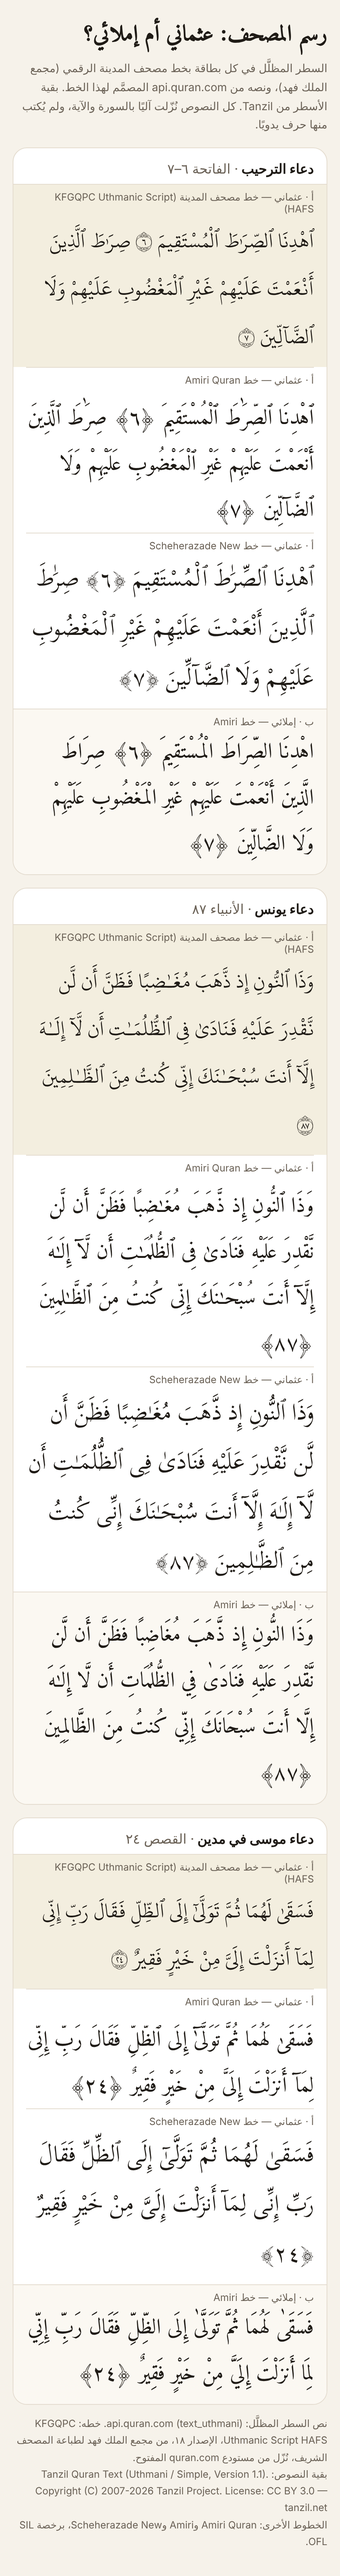
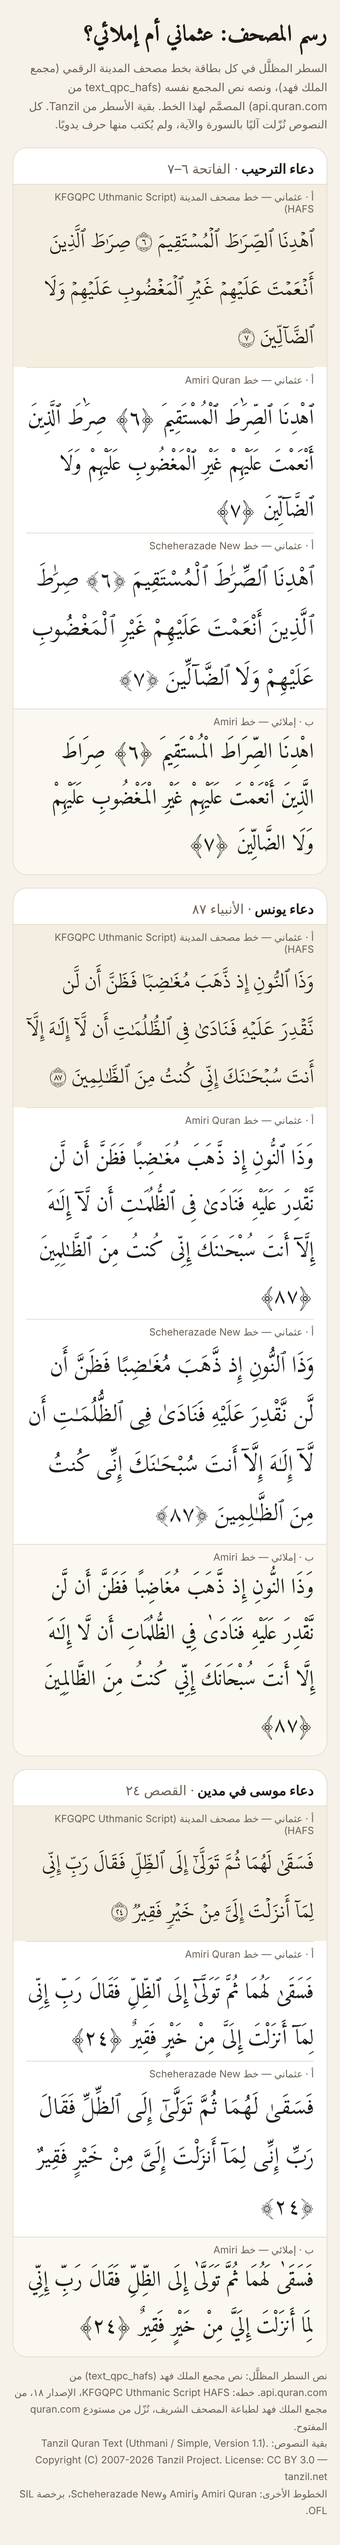
docs(handoff): record the font, hosting and display decisions
- Qur'an text is shown in the Madina Mushaf font (KFGQPC Uthmanic Script
  HAFS) with the King Fahd Complex's own text, text_qpc_hafs from
  api.quran.com, in the app and on share images, so it reads like the
  printed mushaf. The comparison image now uses that text; its letters
  match Tanzil's for the sampled verses, while the marks are encoded the
  complex's way. Tanzil's modern text stays for search. Terms of use of
  the font and text are still to be confirmed.
- Hosting is Vercel's free vercel.app address for now, with the data
  move a later custom domain would need.
- Cards are shown once they pass source verification
  (CONTENT_MIN_LEVEL=verified), with honest wording about the scholarly
  review still to come.
- The grading reference stays open, now explained in plain words.
- The single-file pack is rebuilt; unpacking it reproduces all 33 files.

Claude-Session: https://claude.ai/code/session_01Ya9qA5uPgxLzhDBS1pcCap

Changed region(s): [[0.0302, 0.0311, 0.9674, 0.9966], [0.2721, 0.2803, 0.3023, 0.3114], [0.0907, 0.872, 0.1209, 0.9031]]

diff --git a/handoff/dua-app/00-decisions.md b/handoff/dua-app/00-decisions.md
@@ -9,10 +9,13 @@
 | ١ | **الاسم: «قريب»** | ٢٣ نوفمبر ٢٠٢٦ | من آية الدعاء في سورة البقرة (١٨٦). في الكود وبادئة مفاتيح التخزين: `qareeb` |
 | ٢ | **دعاء الترحيب: دعاء الهداية في الفاتحة (٦–٧)** | ٢٣ نوفمبر ٢٠٢٦ | مع الحديث القدسي في قسمة الصلاة بين الله وعبده (صحيح مسلم ٣٩٥). الإحالتان تطابقان المصدرين في التحقق الأول (`04b`) |
 | ٣ | **المراجعة على مرحلتين** | ٢٣ نوفمبر ٢٠٢٦ | الأولى: تحقق Claude من كل نص ومرجع ودرجة وموقف ومعنى مقابل المصادر. الثانية: مراجع شرعي مسمّى يُختار لاحقًا. التفاصيل وحدود المرحلة الأولى في `03` §٨ |
+| ٤ | **رسم المصحف: العثماني بخط مصحف المدينة** | ٢٣ نوفمبر ٢٠٢٦ | الآية تظهر للمستخدم كما في المصحف: الألف الصغيرة، والمد، والهمزات، وعلامات الوقف، ورقم الآية داخل علامة نهايتها. الخط KFGQPC Uthmanic Script HAFS مع نص المجمع المصمَّم له (من `api.quran.com`)، في التطبيق وفي بطاقة المشاركة. والإملائي من Tanzil للبحث وحده. **بقي:** تأكيد شروط استخدام الخط والنص (§٤) |
+| ٥ | **الاستضافة: Vercel بنطاقه المجاني مؤقتًا** | ٢٣ نوفمبر ٢٠٢٦ | التطبيق على عنوان `vercel.app` إلى أن يُحجز نطاق. **انتبه:** بيانات المستخدم مربوطة بالعنوان، فالانتقال لاحقًا إلى نطاق خاص يحتاج خطوة نقل (§٧) |
+| ٦ | **البطاقات تظهر بعد التحقق الأول، دون انتظار المراجع الشرعي** | ٢٣ نوفمبر ٢٠٢٦ | `CONTENT_MIN_LEVEL=verified`. «عن المحتوى» تقول بدقة إن النصوص طوبقت على مصادرها وإن المراجعة العلمية جارية (§٩) |
 
 ## ينتظرك
 
-### ٤. رسم المصحف: عثماني أم إملائي؟
+### ٤. رسم المصحف (حُسم: العثماني بخط مصحف المدينة)
 
 المقارنة في [assets/script-compare.png](assets/script-compare.png): ثلاثة أدعية (الفاتحة ٦–٧، والأنبياء ٨٧، والقصص ٢٤). كل دعاء بالرسم العثماني في ثلاثة خطوط، أولها خط مصحف المدينة الرقمي، وبالإملائي في خط واحد. كل النصوص نُزّلت آليًا بالسورة والآية.
 
@@ -21,7 +24,7 @@
 | | KFGQPC Uthmanic Script HAFS | خطوط الصفحات (QCF) |
 |---|---|---|
 | ما هو | خط عادي مبني على كتابة عثمان طه، تُكتب به أي آية بأي حجم | خط مستقل لكل صفحة من صفحات المصحف الـ٦٠٤، يرسم الصفحة كما هي في المطبوع |
-| النص الذي يحتاجه | نص المجمع المصمَّم له، وهو المتاح في `api.quran.com` (`text_uthmani`). نص Tanzil العثماني لا يطابقه في بعض العلامات | رموز خاصة بكل صفحة، ليست حروفًا عربية |
+| النص الذي يحتاجه | نص المجمع المصمَّم له، وهو المتاح في `api.quran.com` (`text_qpc_hafs`). نص Tanzil العثماني يرمّز بعض العلامات بغير ما يرمّزها المجمع (السكون مثلًا)، فلا يُستعمل مع هذا الخط. الحروف نفسها متطابقة بين النصين بعد حذف العلامات، وهذا ما يقارنه سكريبت النسخ | رموز خاصة بكل صفحة، ليست حروفًا عربية |
 | يصلح لـ «قريب»؟ | **نعم**: في الصورة يعرض أرقام الآيات تلقائيًا داخل علامة نهاية الآية كالمصحف | **لا**: لا يُبحث فيه ولا يُنسخ منه، ويصعب اقتطاع دعاء من وسط آية |
 | ما يلزم قبل اعتماده | قراءة شروط استخدام الخط عند المجمع، وشروط نص `api.quran.com`. لم أجد نص ترخيص واضحًا في صفحة خطوط المجمع | — |
 
@@ -36,9 +39,15 @@
 | النسخ والمشاركة | يظهر سليمًا في أغلب الهواتف الحديثة، وقد تظهر بعض العلامات مربعات في أجهزة قديمة | يظهر سليمًا في كل مكان |
 | الترخيص | Tanzil Uthmani: الترخيص نفسه (CC BY 3.0، نسخ حرفي، وذكر المصدر، ورابط) | Tanzil Simple: الترخيص نفسه |
 
-**اقتراحي:** العثماني للعرض داخل التطبيق وعلى بطاقة الصورة، بخط مصحف المدينة ونص المجمع إن سمحت شروطهما؛ فهو أقرب ما يكون إلى المصحف الذي يعرفه الناس. وإن لم تسمح: Amiri Quran مع نص Tanzil العثماني. والإملائي من Tanzil للبحث ولنص النسخ في الحالين.
+**القرار:** خط مصحف المدينة مع نص المجمع، في التطبيق وفي بطاقة المشاركة، حتى يقرأ المستخدم كأنه يقرأ من المصحف. والإملائي من Tanzil للبحث وحده.
 
-### ٥. المرجع المعتمد في درجة الحديث
+**بقي قبل الإطلاق العام:** تأكيد شروط استخدام الخط والنص. صفحة خطوط المجمع (`fonts.qurancomplex.gov.sa`) تعرض الخطوط بعبارة «قريبًا» ولا تذكر ترخيصًا. الملف الذي جرّبته من المستودع المفتوح لموقع quran.com، ونصه من `api.quran.com`. الطريق: مراسلة المجمع، أو اعتماد الشروط المنشورة في مكتبة QUL (qul.tarteel.ai) إن كانت تغطي الاستخدام. وإن تعذّر، فالبديل الجاهز Amiri Quran مع نص Tanzil العثماني (رخصتاهما معروفتان)، ويتغير بسطر في الإعداد.
+
+**حدّ الدقة:** الخط الرقمي مبني على خط عثمان طه نفسه، لكنه ليس صورة الصفحة المطبوعة. السطور تنكسر حسب عرض الشاشة لا كما في صفحة المصحف. المطابقة التامة لشكل الصفحة لا تكون إلا بخطوط الصفحات (QCF)، ولا تصلح لنا كما سبق.
+
+### ٥. المرجع المعتمد في درجة الحديث (لم يُحسم)
+
+**المسألة ببساطة:** أحاديث البخاري ومسلم ثابتة، ولا سؤال فيها. أما الأحاديث في الكتب الأخرى (أبو داود، والترمذي، والنسائي، وابن ماجه، وأحمد) فحكم عليها العلماء بعد ذلك: هذا صحيح، وهذا حسن، وهذا ضعيف. وأحيانًا يختلفون في الحديث الواحد. فنحتاج قاعدة واحدة نطبقها كل مرة: **بحكم مَن نأخذ؟**
 
 **ما لن يتغير أيًّا كان اختيارك:** الصحيح والحسن فقط. ما في البخاري ومسلم يكفي فيه العزو. ولا تُعرض درجة إلا ومعها اسم من حكم بها.
 
@@ -60,7 +69,7 @@
 | **ج. اتفاق المحققين** | يدخل ما لم يضعّفه أحد من قائمة محددة | الأشد احتياطًا | يُسقط أدعية ثابتة عند الأكثرين. مثال: لو دخل زبير علي زئي في القائمة لسقط دعاء عائشة ليلة القدر |
 | **د. ما يحكم به المراجع الشرعي** | المراجع يقرر في كل حديث خارج الصحيحين | الأدق إن كان المراجع محدّثًا | يعتمد على وجوده، ولا يصلح للمرحلة الأولى وحدها |
 
-**اقتراحي: ب.** القاعدة واضحة يطبقها التحقق الأول آليًا، والحالات المختلف فيها تذهب إلى المراجع وحده.
+**اقتراحي: ب.** القاعدة واضحة يطبقها التحقق الأول آليًا، والحالات المختلف فيها تذهب إلى المراجع وحده. ومع قرار عرض البطاقات قبل المراجع (§٩)، الحديث المختلف فيه لا يظهر حتى يقرر المراجع فيه، وما سواه يظهر.
 
 ### ٦. الدرر السنية
 
@@ -69,7 +78,7 @@
 - الطرق الممكنة: (١) يُفتح يدويًا عند المراجعة، والرابط يُحفظ في `hadith.sourceUrl`. (٢) أصل إليه من جهازك أنت عبر Remote Control، فيمر الطلب من اتصالك. يُجرَّب، ولا أضمن أن Cloudflare يسمح. (٣) قبل أي سحب آلي منظّم: قراءة شروط الموقع، أو مراسلتهم.
 - ما استعملته بدلًا منه في التحقق الأول: مجموعة بيانات مفتوحة على GitHub (`fawazahmed0/hadith-api`، مأخوذة من sunnah.com) فيها النص العربي والأرقام وأحكام عدد من المحققين للسنن. وجدت فيها حرفًا تالفًا في نص واحد (البخاري ٨٣٤)، فهي للتحقق لا للنشر، ولا يُعتمد عليها وحدها.
 
-### ٧. النطاق
+### ٧. النطاق (حُسم مؤقتًا: Vercel بنطاقه المجاني)
 
 `qareeb.app` و`qareeb.com` و`qarib.app` وأغلب الأشكال القصيرة محجوزة. المتاح عند الفحص في ٢٣ نوفمبر ٢٠٢٦ (فحص فقط، لم يُحجز شيء):
 
@@ -77,15 +86,24 @@
 |---|---|
 | **qareebdua.app** و**qareebdua.com** | الاسم نفسه في النطاقين: الصفحة التعريفية على أحدهما، والتطبيق على `app.` منه، والآخر يحوّل إليه |
 | duaqareeb.com و duaqareeb.app | |
-| inniqareeb.com | من «فإني قريب»، لكنه طويل ويصعب كتابته |
+| inniqareeb.com | من آية البقرة ١٨٦، لكنه طويل ويصعب كتابته |
 | qareeb.dev | لا يناسب منتجًا للعامة |
 
-**اقتراحي:** `qareebdua.app` (مع `qareebdua.com` تحويلًا). الحجز من حسابك على Vercel أو أي مسجل نطاقات. أستطيع حجزه إن طلبت ذلك صراحة، بعد أن أعرض عليك السعر.
+**القرار الآن:** التطبيق على Vercel بعنوانه المجاني (مثل `qareeb.vercel.app`، والعنوان الفعلي يحدده اسم المشروع على Vercel وتوفره).
+
+**ما يترتب عليه:** المتصفح يحفظ بيانات المستخدم (الدفتر، و«دعواتي»، والأيام) لكل عنوان على حدة. لو بدأ الناس على `vercel.app` ثم انتقل التطبيق إلى نطاق خاص، سيفتحونه فارغًا. فإما:
+
+1. أن يُحجز النطاق قبل أن يستعمله أحد غيرك وغير المختبرين (الأبسط، واقتراحي)، أو
+2. أن تُبنى قبل الانتقال خطوة نقل: على العنوان القديم شريط «انتقلنا» وزر يصدّر النسخة الاحتياطية، وعلى الجديد زر يستوردها. هذه موجودة أصلًا في الإعدادات (`05` §٦)، فيكفي شريط وزر.
+
+والمتاح من النطاقات عند الفحص في الجدول أعلاه: `qareebdua.app` و`qareebdua.com` في مقدمته.
 
 ### ٨. المراجع الشرعي (المرحلة الثانية)
 
 لم يُسمَّ بعد. المطلوب: عالم بالحديث والتفسير، يراجع البطاقات بعد التحقق الأول بقائمة الفحص في `03` §٨، ويوقّع باسمه في `review.approval`.
 
-### ٩. ما يُعرض قبل المراجع الشرعي
+### ٩. ما يُعرض قبل المراجع الشرعي (حُسم: يُعرض ما تحققتُ منه)
 
-قرار مستقل يلزم قبل أي إطلاق: هل تظهر للناس بطاقات تحققتُ منها ولم يراجعها العالم بعد؟ انظر `03` §٨، «البوابة».
+`CONTENT_MIN_LEVEL=verified`: تظهر البطاقة بعد أن تجتاز التحقق الأول من المصادر، دون انتظار المراجع الشرعي. البطاقات التي فيها خلاف في الدرجة أو سؤال مفتوح لا تجتاز التحقق الأول أصلًا، فتنتظر المراجع.
+
+يبقى شرط واحد للأمانة، كما في درس «الحمد» (C-01 وC-08): صفحة «عن المحتوى» تقول بدقة إن كل نص طوبق على مصدره وإن المراجعة العلمية جارية، ولا تقول «مراجَع من العلماء» قبل أن يحدث. أما وسم كل بطاقة بحالتها فاختياري، ويُقرر مع التصميم.

diff --git a/handoff/dua-app/05-technical-blueprint.md b/handoff/dua-app/05-technical-blueprint.md
@@ -32,7 +32,7 @@
 │   ├── sources/                  # ملف نص القرآن كما نُزّل، مع ترخيصه
 │   └── themes.json               # وسوم الحاجة وأسماؤها
 ├── scripts/
-│   ├── fetch-quran.ts            # ينسخ quran.fullText من content/sources بالسورة والآية
+│   ├── fetch-quran.ts            # ينسخ quran.fullText من نص المجمع في content/sources بالسورة والآية، ويقارن حروفه بنص Tanzil
 │   ├── fetch-hadith.ts           # ينسخ hadith.fullNarration من مجموعة بيانات الحديث بالكتاب والرقم
 │   ├── validate-content.ts       # الفحوص في 03 القسم ٧، ويفشل البناء عند أي خطأ
 │   ├── build-content.ts          # يجمع البطاقات المعتمدة في ملف واحد للتطبيق
@@ -84,8 +84,8 @@ export interface QuranSource {
   surahName: string;
   ayahFrom: number;
   ayahTo: number;
-  fullText: string;      // مجلوب آليًا، لا يُحرَّر
-  edition: string;       // "tanzil-uthmani-1.1" مثلًا
+  fullText: string;      // منسوخ آليًا ولا يُحرَّر. نص المجمع ينتهي برقم الآية، والخط يرسمه داخل علامة نهايتها
+  edition: string;       // "kfgqpc-hafs/api.quran.com:text_qpc_hafs"
 }
 
 export interface HadithSource {
@@ -158,7 +158,7 @@ export interface Dua {
 
 `scripts/build-content.ts` يكتب `src/content/generated/duas.json`:
 
-- في الإنتاج: البطاقات التي بلغت `CONTENT_MIN_LEVEL` فقط (`approved` افتراضيًا، أو `verified` لإطلاق تجريبي؛ انظر `03` §٨). إن قلّ عددها عن حد أدنى (مثلًا ٣٠) يفشل البناء.
+- في الإنتاج: البطاقات التي بلغت `CONTENT_MIN_LEVEL` فقط (`verified` بقرار صاحب المشروع، ويصير `approved` حين يوجد المراجع؛ انظر `03` §٨). إن قلّ عددها عن حد أدنى (مثلًا ٣٠) يفشل البناء.
 - يُحمل مستوى كل بطاقة إلى التطبيق، فتعرض «عن المحتوى» عدد ما بلغ كل مستوى.
 - في المعاينة (`CONTENT_PREVIEW=1`): كل البطاقات، والمسودات تظهر بشارة «مسودة» واضحة، والأماكن الفارغة `<<…>>` تظهر بلون تحذيري.
 
@@ -230,7 +230,7 @@ resolveToday({ today, welcomeDoneOn, all, welcomeId })
 - `@theme` في Tailwind يربط المتغيرات بأسماء أدوات (`bg-surface`، `text-muted`…). هكذا بُنيت الصفحة التعريفية لـ«الحمد» (`src/landing/landing.css`) وكانت سليمة، بخلاف التطبيق الذي كتب ألوان hex في المكوّنات ثم أعاد تلوينها في الوضع الفاتح بنحو ٢٠٠ سطر من `!important`، فبقي ٧٩ لونًا بلا مقابل فاتح.
 - فحص في CI: أي لون hex أو `rgb(` داخل `src/` خارج `tokens.css` يفشل الفحص.
 - Tailwind يفحص `src/` فقط (`@import "tailwindcss" source("../")` من داخل `src/styles`)، لا المستودع كله.
-- الخطوط مستضافة ذاتيًا، ومقتطعة للحروف العربية: خط للنص، وخط للمصحف. لا طلب إلى Google Fonts (يكشف عنوان IP للمستخدم، ويناقض وعد الخصوصية، ويؤخر العرض).
+- الخطوط مستضافة ذاتيًا، ومقتطعة للحروف العربية: خط للنص، وخط المصحف KFGQPC Uthmanic Script HAFS (ملف `UthmanicHafs1Ver18.woff2`، لا يُقتطع حتى لا تسقط علامة). وهو نفسه في بطاقة المشاركة، فتخرج الصورة كصفحة المصحف. لا طلب إلى Google Fonts (يكشف عنوان IP للمستخدم، ويناقض وعد الخصوصية، ويؤخر العرض).
 - مكوّن `<SacredText kind="quran|hadith">` واحد يطبّق العلامات (﴿ ﴾ أو « »)، والخط، والاتجاه، ويمنع القطع. لا يُعرض نص مقدس بغيره. (في «الحمد» كان نوع النص يُقارن بقيمة خاطئة، `'ayah'` بدل `'quran'`، فظهرت الآية بعلامات الحديث وخطه، B-04.)
 - `index.html`: `lang="ar" dir="rtl"`، وviewport بلا منع للتكبير.
 
@@ -280,6 +280,7 @@ resolveToday({ today, welcomeDoneOn, all, welcomeId })
 
 ## ١٢. النشر والأمان
 
+- **الآن (قرار ٥ في `00-decisions.md`):** مشروع Vercel واحد بعنوانه المجاني `*.vercel.app`، الصفحة التعريفية والتطبيق فيه معًا (التطبيق على `/app` مثلًا) إلى أن يُحجز نطاق. قبل أي انتقال إلى نطاق خاص: شريط «انتقلنا» على العنوان القديم مع زر تصدير، وزر استيراد على الجديد (`00` §٧).
 - **النطاق يُحسم قبل الإطلاق ولا يتغير**: التخزين المحلي مربوط بالمصدر (origin)، فنقل التطبيق من نطاق إلى آخر يُفقد المستخدمين بياناتهم.
 - إن كانت الصفحة التعريفية على النطاق الرئيسي والتطبيق على نطاق فرعي (كما في «الحمد»): Vercel يقدّم `index.html` الموجود قبل تطبيق قواعد إعادة الكتابة، فإما أن يُسمّى ملف التطبيق `app.html` في البناء (حل «الحمد»: `vite build && mv dist/index.html dist/app.html`) وإما أن يكون لكلٍّ منهما مشروع Vercel منفصل. المشروعان المنفصلان أبسط وأوضح.
 - ولا يجيب التطبيق إلا على نطاقه (إعادة توجيه من أي مسار آخر)، حتى لا تتوزع بيانات المستخدم على مصدرين (في «الحمد» كان `alhamd.app/app.html` يفتح التطبيق بتخزين منفصل).

diff --git a/handoff/dua-app/08-kickoff-prompt.md b/handoff/dua-app/08-kickoff-prompt.md
@@ -30,11 +30,11 @@
 ### الجزء ١: الأساس
 
 - مشروع Vite + React 19 + TypeScript بوضع strict، وBun، وTailwind v4 بمتغيرات دلالية في src/styles/tokens.css (أسماؤها في docs/handoff/10-identity-brief.md). الهوية البصرية لم تُصنع بعد: ضع قيمًا محايدة مؤقتة (رماديات وأزرق واحد) واضحة أنها مؤقتة، بحيث تُستبدل الهوية بتعديل tokens.css وحده.
-- هيكل المجلدات كما في المخطط §٢. اسم التطبيق («قريب») وبادئة مفاتيح التخزين (qareeb) ونسخة نص القرآن المعتمدة للعرض (عثماني أو إملائي، لم تُحسم بعد) في ملف إعداد واحد (src/config.ts)، كلٌّ منها يتغير بسطر.
+- هيكل المجلدات كما في المخطط §٢. اسم التطبيق («قريب») وبادئة مفاتيح التخزين (qareeb) ونسخة نص القرآن المعتمدة للعرض (المعتمد: نص المجمع بخط KFGQPC Uthmanic Script HAFS؛ والبديل Amiri Quran مع Tanzil العثماني إن لم تسمح الشروط) في ملف إعداد واحد (src/config.ts)، كلٌّ منها يتغير بسطر.
 - Vitest مع اختبارات reusable-code، وPlaywright، وGitHub Actions يشغّل: lint وtest وvalidate-content وcheck-promises وbuild.
 - scripts/check-promises.ts كما في المخطط §١٠.
-- خط المحتوى: src/content/types.ts وschema.ts (Zod)، وscripts/validate-content.ts بالفحوص في 03 §٧، وscripts/build-content.ts مع بوابة المراجعة: الحد الأدنى لما يدخل الإنتاج متغير واحد (verified أو approved، انظر 03 §٨)، والمعاينة CONTENT_PREVIEW=1 تضم الكل بشارة «مسودة».
-- scripts/fetch-quran.ts: يقرأ ملف نص القرآن من content/sources/ ويملأ quran.fullText بالسورة والآية. ضع في content/sources/ نسختي Tanzil (uthmani وsimple) مع ترخيصهما: واحدة للعرض حسب الإعداد، والإملائية دائمًا للبحث. إن لم يكن الملف موجودًا، أو لم تستطع تنزيله من tanzil.net بسبب سياسة الشبكة، فتوقف واطلب مني الملف. لا تكتب نص آية أو حديث من ذاكرتك أبدًا، ولا جزءًا منه: النص يُنسخ حرفيًا من مصدره بالسكريبت، ويظهر للمستخدم كما نُسخ. وفي رسائلك لي أشر إليه بمرجعه.
+- خط المحتوى: src/content/types.ts وschema.ts (Zod)، وscripts/validate-content.ts بالفحوص في 03 §٧، وscripts/build-content.ts مع بوابة المراجعة: الحد الأدنى لما يدخل الإنتاج متغير واحد (CONTENT_MIN_LEVEL، والمعتمد الآن verified بقرار صاحب المشروع؛ انظر 03 §٨)، والمعاينة CONTENT_PREVIEW=1 تضم الكل بشارة «مسودة».
+- scripts/fetch-quran.ts: يقرأ ملف نص القرآن من content/sources/ ويملأ quran.fullText بالسورة والآية. ضع في content/sources/: نص المجمع منسوخًا من api.quran.com (حقل text_qpc_hafs لكل آية، من /api/v4/quran/verses/qpc_hafs) للعرض، ونسختي Tanzil (uthmani للمقارنة، وsimple للبحث) مع ترخيصهما. وخط المصحف KFGQPC Uthmanic Script HAFS: الملف UthmanicHafs1Ver18.woff2 من المستودع المفتوح quran/quran.com-frontend-next (public/fonts/quran/hafs/uthmanic_hafs/)، مستضاف ذاتيًا. الآية تظهر للمستخدم كما في المصحف. إن لم يكن الملف موجودًا، أو لم تستطع تنزيله من tanzil.net بسبب سياسة الشبكة، فتوقف واطلب مني الملف. لا تكتب نص آية أو حديث من ذاكرتك أبدًا، ولا جزءًا منه: النص يُنسخ حرفيًا من مصدره بالسكريبت، ويظهر للمستخدم كما نُسخ. وفي رسائلك لي أشر إليه بمرجعه.
 - scripts/fetch-hadith.ts: ينسخ نص الحديث كاملًا من مجموعة البيانات المفتوحة (fawazahmed0/hadith-api، الكتب الستة) بالكتاب والرقم إلى hadith.fullNarration، مع اسم المصدر ونظام ترقيمه. نص الدعاء (text) جزء حرفي منه يحدده المراجع، والسكريبت يتحقق أنه جزء منه. لا يُعدّ الحديث متحققًا منه قبل مطابقته على مصدر ثانٍ. انظر docs/handoff/04c-catalogue-texts.md لمثال الناتج وتنبيه الحروف التالفة.
 - ثلاث بطاقات تجريبية في content/duas/ بحالة draft، مبنية على docs/handoff/templates/dua.example.json وdua.example.quran.json: دعاء الترحيب (الفاتحة ٦–٧)، ودعاء يونس (الأنبياء ٨٧)، ودعاء معاذ (سنن أبي داود ١٥٢٢). نص الآيات يأتي من السكريبت. نص الحديث وكل حقل نصي مقدس للسنة يبقى مكانًا فارغًا بالشكل <<يُلصق من المصدر: سنن أبي داود ١٥٢٢>>. الطبقة المؤلَّفة اكتب لها نصًّا قصيرًا واضحًا أنه للتجربة: «[نص تجريبي]».
 

diff --git a/handoff/dua-app/templates/CLAUDE.md b/handoff/dua-app/templates/CLAUDE.md
@@ -19,7 +19,7 @@ bun run test              # vitest
 bun run e2e -- --trace off
 bun run validate-content  # schema, sacred-text and review checks on content/duas
 bun run check-promises    # product promises as code checks
-bun run build             # production build: content at CONTENT_MIN_LEVEL or above (approved by default)
+bun run build             # production build: content at CONTENT_MIN_LEVEL or above (verified, by the owner's decision)
 CONTENT_PREVIEW=1 bun run build   # preview build: drafts included, marked
 ```
 
@@ -27,14 +27,14 @@ CONTENT_PREVIEW=1 bun run build   # preview build: drafts included, marked
 
 - **Sacred text is copied, never written.** Qur'an text is copied by `scripts/fetch-quran.ts` from the source file in `content/sources/`, by surah and ayah. Hadith text is copied by `scripts/fetch-hadith.ts` from the hadith dataset, by collection and number, or pasted by a researcher from the source named in `hadith.sourceUrl`, and checked against a second source before a card is verified. Both are shown to users exactly as copied. Never type, complete, correct, re-vowel or paraphrase a verse or a hadith from memory, in any file or reply; refer to one by its reference instead. A character a source has corrupted is never repaired by hand: copy that text from a second source. Tests use neutral Arabic text.
 - **Three content layers.** Sacred text (verbatim), transmitted information (with a citation), authored text (reviewed). Authored text adds no event, name, quote or ruling that is not in the first two layers. Anything quoted inside authored text between ﴿ ﴾ or « » must match its source; `validate-content` checks the Qur'an fragments.
-- **Review gate.** Two stages: `verified` (source verification by Claude, with a report in `review.verification`) then `approved` (the named scholarly reviewer, in `review.approval`). Production shows cards at `CONTENT_MIN_LEVEL` or above (`approved` by default). Never set `approval` or the `approved` status yourself, and never write in the interface that the content was reviewed by scholars unless every card shown is `approved`.
+- **Review gate.** Two stages: `verified` (source verification by Claude, with a report in `review.verification`) then `approved` (the named scholarly reviewer, in `review.approval`). Production shows cards at `CONTENT_MIN_LEVEL` or above (`verified`, by the owner's decision, until a reviewer exists). Never set `approval` or the `approved` status yourself, and never write in the interface that the content was reviewed by scholars unless every card shown is `approved`.
 - **Dates.** Every day key comes from `src/lib/dates.ts` (`toLocalDateString`, `parseLocalDateString`, `useLocalDay`). Never `toISOString().slice(0, 10)` or `new Date("YYYY-MM-DD")`: those are UTC, which is still yesterday until 03:00 in Riyadh.
 - **Store what was shown.** A completion stores the dua id with the local day. Never recompute which dua a past day had from its date.
 - **Storage keys.** One registry, `src/state/keys.ts`, one pattern `qareeb:name:v1`. Never rename a key or change a stored shape without a migration, a test for it and an update to `docs/reference/storage.md`. Nothing is written on first run except what the user did.
 - **Product promises.** No streaks, consecutive-day counts, points, badges or percentages of days. No account. No network request from `src/` (the allow-list in `scripts/check-promises.ts` is empty). No user text in anything shared or exported except the user's own backup file. Do not show a setting or claim a feature that does not work.
 - **Theming.** Components use semantic tokens from `src/styles/tokens.css` through Tailwind's `@theme`. No hex, `rgb(` or named colours in components. The theme is set on `<html>` only.
 - **Overlays.** Every dialog renders through the shared `Dialog` component (portal to `document.body`, `useDialog` for focus, Escape and scroll lock). Never put `transform`, `filter` or `animation-fill-mode: forwards` on a screen root: a transformed ancestor becomes the containing block of `position: fixed` children.
-- **Sacred text display.** Only through `SacredText`. It is never truncated, in the app or on share images: shrink the type or grow the card.
+- **Sacred text display.** Only through `SacredText`. Qur'an text is the King Fahd Complex text (`text_qpc_hafs` from api.quran.com, endpoint `/api/v4/quran/verses/qpc_hafs`, kept in `content/sources/`) in the Madina Mushaf font KFGQPC Uthmanic Script HAFS, self-hosted, in the app and on share images, so it reads like the printed mushaf. Do not pair that font with Tanzil's text. It is never truncated, in the app or on share images: shrink the type or grow the card.
 - **Accessibility.** No `user-scalable=no` or `maximum-scale`. Honour `prefers-reduced-motion`. Paced text lives in a polite live region and can always be shown in full.
 - **No developer tools in production builds.** Use `import.meta.env.DEV`.
 - **Size.** Keep components under about 300 lines; pure logic goes in `src/lib/` with tests.

diff --git a/handoff/dua-app/01-product-brief.md b/handoff/dua-app/01-product-brief.md
@@ -77,10 +77,10 @@
 
 | # | القرار | اقتراحي |
 |---:|---|---|
-| ١ | الاسم والنطاق | الاسم «قريب» (محسوم). النطاق يُحسم قبل الإطلاق، **ولا يُغيَّر بعده**: بيانات المستخدم مربوطة بالنطاق، وتغيير النطاق يضيّعها |
+| ١ | الاسم والنطاق | الاسم «قريب» (محسوم). الاستضافة مؤقتًا على Vercel بعنوانه المجاني (محسوم). النطاق الخاص يُحجز قبل أن يستعمل التطبيقَ الناسُ، لأن بيانات المستخدم مربوطة بالعنوان (`00` §٧) |
 | ٢ | المراجعة | مرحلتان (محسوم): تحقق من المصادر يقوم به Claude، ثم مراجع شرعي مسمّى. انظر `03` §٨ |
 | ٣ | المرجع المعتمد في درجة الحديث | **لم يُحسم**، والخيارات في `00-decisions.md`. الثابت: الاقتصار على الصحيح والحسن. ما في الصحيحين يكفي فيه العزو، وغيره يُذكر معه من حكم عليه (مثل: صححه الألباني في صحيح أبي داود). الضعيف لا يدخل ولو اشتهر |
-| ٤ | رسم المصحف | **لم يُحسم**، والمقارنة بين الرسمين في `assets/script-compare.png`. اقتراحي العثماني للعرض، مع نسخة إملائية للبحث. انظر `03` §٤ |
+| ٤ | رسم المصحف | **محسوم**: العثماني بخط مصحف المدينة (KFGQPC Uthmanic Script HAFS) مع نص المجمع، في التطبيق وبطاقة المشاركة، والإملائي للبحث. بقي تأكيد شروط الاستخدام (`00` §٤) |
 | ٥ | دعاء الترحيب | **محسوم**: دعاء الهداية في الفاتحة (٦–٧) مع الحديث القدسي في قسمة الصلاة بين الله وعبده (صحيح مسلم ٣٩٥). يقوله المسلم ١٧ مرة في اليوم على الأقل |
 | ٦ | ترتيب الإطلاق | القرآن والسنة معًا متداخلين، حتى لا يمر شهر كامل بلا حديث |
 | ٧ | المكتبة | في الإصدار الأول: الأدعية التي مررت بها فقط، مع المفضلة. التصفح الكامل حسب الحاجة في المرحلة الثانية |

diff --git a/handoff/dua-app/03-content-model.md b/handoff/dua-app/03-content-model.md
@@ -61,7 +61,9 @@
 
 **القاعدة:** النص يُجلب بسكريبت من ملف مصدر محفوظ في المستودع، بالسورة ورقم الآية. لا يُكتب يدويًا ولا يُعدَّل بعد جلبه.
 
-### اختيار رسم المصحف (قرار ٤ في `00-decisions.md`)
+### رسم المصحف (حُسم: قرار ٤ في `00-decisions.md`)
+
+**المعتمد:** العثماني بخط مصحف المدينة (KFGQPC Uthmanic Script HAFS) مع نص المجمع المصمَّم له، منسوخًا من `api.quran.com` (`text_qpc_hafs`) إلى ملف في `content/sources/`. نص Tanzil الإملائي للبحث، ونص Tanzil العثماني مصدر ثانٍ تُقارن به الحروف. الجدول أدناه يبقى لتوثيق سبب الاختيار.
 
 المقارنة بالصورة: [assets/script-compare.png](assets/script-compare.png).
 
@@ -201,8 +203,8 @@ draft ← pending_verification ← verified ← approved
 
 | الخيار | متى | شرطه |
 |---|---|---|
-| `approved` (الافتراضي، واقتراحي للإطلاق العام) | بعد أن يراجع العالم | لا شيء إضافي |
-| `verified` | إطلاق تجريبي محدود قبل وجود المراجع | تقول «عن المحتوى» بدقة: «طابقنا كل نص مع مصدره، والمراجعة العلمية جارية»، ولا يُقال «مراجَع علميًا». وتظهر في كل بطاقة حالتها |
+| `approved` | بعد أن يراجع العالم | لا شيء إضافي |
+| `verified` (**المعتمد الآن**، قرار ٦ في `00-decisions.md`) | من أول إطلاق، قبل وجود المراجع | تقول «عن المحتوى» بدقة: «طابقنا كل نص مع مصدره، والمراجعة العلمية جارية»، ولا يُقال «مراجَع علميًا». وتظهر في كل بطاقة حالتها |
 
 ### قائمة فحص المراجع الشرعي لكل بطاقة (المرحلة الثانية)
 

diff --git a/handoff/dua-app/10-identity-brief.md b/handoff/dua-app/10-identity-brief.md
@@ -53,7 +53,7 @@
 | الدور | شروط |
 |---|---|
 | خط الواجهة والنص | عربي واضح على الشاشات الصغيرة، بأوزان ٤٠٠ و٥٠٠ و٧٠٠ على الأقل، ورخصته تسمح بالاستضافة الذاتية (OFL مثلًا) |
-| خط المصحف | يدعم علامات الرسم الذي اخترته (العثماني أو الإملائي) كاملة. يُجرَّب على أطول الآيات وأكثرها علامات قبل اعتماده، وتُراجع رخصته |
+| خط المصحف | **محسوم:** خط مصحف المدينة (KFGQPC Uthmanic Script HAFS). لا يُستبدل ولا يُعدَّل مع الهوية؛ الهوية تختار ما حوله فقط: الحجم، وارتفاع السطر، ولون النص المقدس وإطاره |
 | خط العناوين (اختياري) | إن وُجد، فبوزن واحد ومقتطع |
 
 حجم النص الأساسي ١٦ بكسل على الأقل، وارتفاع السطر للنص المقدس واسع (١٫٩ أو أكثر) لأن التشكيل يحتاج مسافة.

diff --git a/handoff/dua-app/07-roadmap-and-launch.md b/handoff/dua-app/07-roadmap-and-launch.md
@@ -105,7 +105,8 @@
 
 ### النشر
 
-- [ ] النطاق النهائي (لن يتغير)، وإعادة توجيه لكل نطاق أو مسار آخر.
+- [ ] النطاق: إن بقي التطبيق على `vercel.app` فلا تغيير بعدها بلا خطوة نقل (`00` §٧). وإن حُجز نطاق: هو النهائي، وإعادة توجيه لكل نطاق أو مسار آخر.
+- [ ] شروط استخدام خط مصحف المدينة ونص المجمع مؤكدة، أو التحويل إلى البديل (`00` §٤).
 - [ ] ترويسات الأمان مفعّلة ومفحوصة.
 - [ ] لا ملفات داخلية في `public/`.
 - [ ] صورة المشاركة والوسوم في الصفحة التعريفية، ومعاينة الرابط في واتساب وX سليمة.
